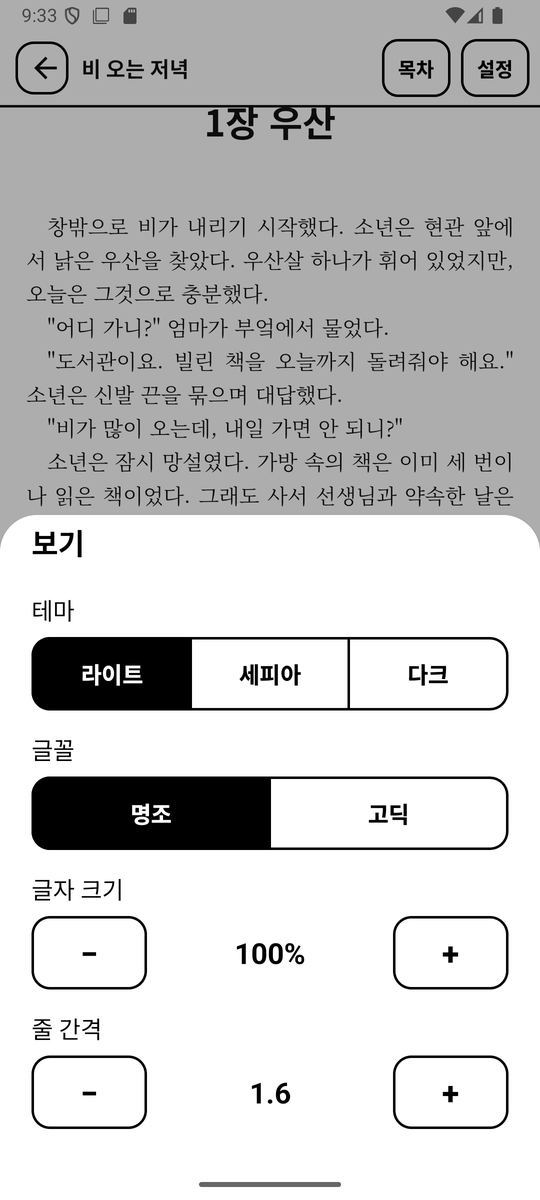
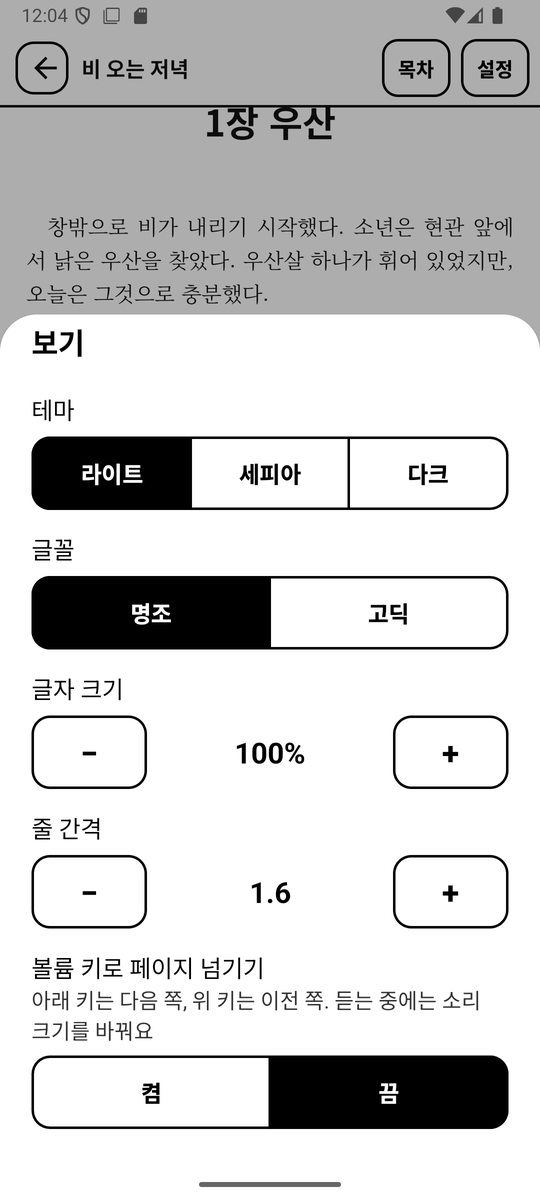
볼륨 키로 페이지 넘기기(설정 → 보기), Supertonic 3을 품질 추천으로, 0.1.5
- 보기 시트에 "볼륨 키로 페이지 넘기기 켬 | 끔"(기본 끔). 켜면 아래 키 다음 쪽, 위 키 이전 쪽. 듣는 중에는
  볼륨 키가 그대로 소리 크기를 바꾼다. PageKeyLayout(IME 이전)에서 받아 시스템 볼륨이 바뀌지 않음
- 음성 팩 받기: Supertonic 3을 먼저, "품질 추천". Supertonic 2는 "가볍고 빠름, 느린 기기용"
  (듀로보에서 3도 끊김 없이 따라 읽고 품질이 더 좋았음)
- README 설치·음성 팩 표·사용 방법·내 목소리 예시를 Supertonic 3 기준으로, 볼륨 키 안내. 스크린샷 3장 교체

Changed region(s): [[0.0, 0.2467, 1.0, 0.9558], [0.0296, 0.0, 0.2667, 0.0308], [0.1481, 0.8942, 0.1778, 0.925]]

diff --git a/app/src/main/java/app/voicereader/ReaderActivity.kt b/app/src/main/java/app/voicereader/ReaderActivity.kt
@@ -233,7 +233,7 @@ class ReaderActivity : AppCompatActivity() {
 
     /** Turns the page for a page key (on key down) and says whether it was one. */
     private fun pageKey(event: AndroidKeyEvent): Boolean {
-        val forward = PAGE_KEYS[event.keyCode] ?: return false
+        val forward = PAGE_KEYS[event.keyCode] ?: volumeKey(event.keyCode) ?: return false
         if (event.action == AndroidKeyEvent.ACTION_DOWN) turnPage(forward)
         return true
     }
@@ -246,6 +246,16 @@ class ReaderActivity : AppCompatActivity() {
         if (amount == 0f) return super.dispatchGenericMotionEvent(event)
         turnPage(amount > 0)
         return true
+    }
+
+    /** Volume down / up as next / previous page, when turned on in 보기 and nothing is being read aloud. */
+    private fun volumeKey(code: Int): Boolean? {
+        if (!app.volumeKeysTurnPages || app.tts.value?.playback?.value?.playWhenReady == true) return null
+        return when (code) {
+            AndroidKeyEvent.KEYCODE_VOLUME_DOWN -> true
+            AndroidKeyEvent.KEYCODE_VOLUME_UP -> false
+            else -> null
+        }
     }
 
     private var lastTurn = 0L
@@ -369,7 +379,8 @@ class ReaderActivity : AppCompatActivity() {
         Sheet(this, "설정").apply {
             row(
                 "보기",
-                "${if (prefs.fontFamily == FontFamily.SANS_SERIF) "고딕" else "명조"} · ${percent(prefs.fontSize ?: 1.0)} · 줄 간격 ${"%.1f".format(prefs.lineHeight ?: 1.6)}",
+                "${if (prefs.fontFamily == FontFamily.SANS_SERIF) "고딕" else "명조"} · ${percent(prefs.fontSize ?: 1.0)} · 줄 간격 ${"%.1f".format(prefs.lineHeight ?: 1.6)}" +
+                    if (app.volumeKeysTurnPages) " · 볼륨 키 넘김" else "",
                 icon = R.drawable.ic_text,
                 more = true,
             ) { showDisplay() }
@@ -415,6 +426,8 @@ class ReaderActivity : AppCompatActivity() {
                 val next = (((prefs.lineHeight ?: 1.6) * 10).roundToInt() + delta).coerceIn(10, 25) / 10.0
                 if (next == prefs.lineHeight) null else "%.1f".format(next).also { update(prefs.copy(lineHeight = next)) }
             }
+            choice("볼륨 키로 페이지 넘기기", "아래 키는 다음 쪽, 위 키는 이전 쪽. 듣는 중에는 소리 크기를 바꿔요",
+                listOf("켬", "끔"), if (app.volumeKeysTurnPages) 0 else 1) { app.volumeKeysTurnPages = it == 0 }
         }.show()
     }
 

diff --git a/app/src/main/java/app/voicereader/App.kt b/app/src/main/java/app/voicereader/App.kt
@@ -136,14 +136,15 @@ fun Context.toast(message: String) = Toast.makeText(this, message, Toast.LENGTH_
 /** A voice pack the app fetches by itself: sherpa-onnx's Supertonic files on Hugging Face, pinned to a revision. */
 class PackSource(val name: String, val repo: String, val revision: String, val bytes: Long, val note: String)
 
+// Supertonic 3 first: it reads better, and an e-ink reader (tested: 듀로보) keeps up with it. 2 is lighter.
 val DOWNLOADABLE_PACKS = listOf(
     PackSource(
-        "supertonic-2", "csukuangfj2/sherpa-onnx-supertonic-tts-int8-2026-03-06",
-        "5dec5897b86e2b293790eedb5e1f561a3295651f", 96_405_714, "서술에 추천",
+        "supertonic-3", "csukuangfj2/sherpa-onnx-supertonic-3-tts-int8-2026-05-11",
+        "cca5a0e6c96e1d2c720986bf7e75fcc81dee3ae4", 145_296_838, "품질 추천",
     ),
     PackSource(
-        "supertonic-3", "csukuangfj2/sherpa-onnx-supertonic-3-tts-int8-2026-05-11",
-        "cca5a0e6c96e1d2c720986bf7e75fcc81dee3ae4", 145_296_838, "대사·감정 표현에 추천, 더 느림",
+        "supertonic-2", "csukuangfj2/sherpa-onnx-supertonic-tts-int8-2026-03-06",
+        "5dec5897b86e2b293790eedb5e1f561a3295651f", 96_405_714, "가볍고 빠름, 느린 기기용",
     ),
 )
 
@@ -315,6 +316,11 @@ class App : Application(), TtsNavigator.Listener {
     var showShelves: Boolean
         get() = prefs.getBoolean("showShelves", true)
         set(value) = prefs.edit().putBoolean("showShelves", value).apply()
+
+    /** Volume keys turn pages while reading (while listening they still set the volume). */
+    var volumeKeysTurnPages: Boolean
+        get() = prefs.getBoolean("volumeKeysTurnPages", false)
+        set(value) = prefs.edit().putBoolean("volumeKeysTurnPages", value).apply()
 
     // --- Device scan: every EPUB on the device, read in place ---
 

diff --git a/docs/my-voice.md b/docs/my-voice.md
@@ -15,7 +15,7 @@
 - 앱의 Supertonic 모델은 그대로 두고, 녹음과 비슷하게 들리도록 목소리 특징값만 맞춥니다. 방법과 측정 결과는 [spike/voice_inversion/README.md](../spike/voice_inversion/README.md)에 있습니다.
 - 목소리 색깔(음색)은 따라오지만, 말버릇과 억양까지 따라오지는 않습니다.
 - 품질은 화자 인식 모델의 점수로만 확인했고, 사람 귀로 비교한 검증은 아직 없습니다. 만든 뒤 꼭 들어 보고 고르세요(5번).
-- **Supertonic 2용과 3용은 따로 만듭니다.** 서술에 쓰는 기본 목소리는 Supertonic 2입니다. 2용 파일을 3에 넣으면 엉뚱한 목소리가 납니다.
+- **Supertonic 2용과 3용은 따로 만듭니다.** 앱에서 쓰는 음성 팩과 같은 모델로 만드세요(품질은 Supertonic 3을 권합니다). 2용 파일을 3에 넣으면 엉뚱한 목소리가 납니다.
 
 ## 1. 동의 확인
 
@@ -117,7 +117,7 @@ afconvert -f WAVE -d LEI16 녹음1.m4a 녹음1.wav
 녹음 wav를 모두 `--ref` 뒤에 적습니다. 도구가 파일들을 하나로 이어 붙입니다. `--name`은 영문이나 숫자로 짓습니다.
 
 ```bash
-python spike/voice_inversion/voice_inversion.py fit --ref 녹음0.wav 녹음1.wav 녹음2.wav 녹음3.wav --name me --model supertonic-2 --out my-voice
+python spike/voice_inversion/voice_inversion.py fit --ref 녹음0.wav 녹음1.wav 녹음2.wav 녹음3.wav --name me --model supertonic-3 --out my-voice
 ```
 
 `my-voice` 폴더에 목소리 파일 세 개가 생깁니다.
@@ -128,18 +128,18 @@ python spike/voice_inversion/voice_inversion.py fit --ref 녹음0.wav 녹음1.wa
 | `me.blend.json` | 기본 목소리 10개를 섞어 가장 가깝게 만든 목소리 |
 | `me.nearest.json` | 기본 목소리 중 가장 비슷한 하나 |
 
-대사만 다른 목소리로 읽게 할 Supertonic 3용이 필요하면 `--model supertonic-3`으로 한 번 더 만듭니다.
+가벼운 Supertonic 2를 쓴다면 `--model supertonic-2`로 만듭니다. 두 팩 모두에서 쓰려면 각각 한 번씩 만듭니다.
 
 ## 5. 들어 보고 고르기
 
 세 파일로 확인용 음성 팩을 만들고, 앱과 같은 방식으로 한국어 문장을 합성해 녹음과 비교합니다.
 
 ```bash
-python spike/voice_inversion/voice_inversion.py pack my-voice/me.nearest.json my-voice/me.blend.json my-voice/me.invert.json --model supertonic-2 --out my-voice/me-supertonic-2.zip
+python spike/voice_inversion/voice_inversion.py pack my-voice/me.nearest.json my-voice/me.blend.json my-voice/me.invert.json --model supertonic-3 --out my-voice/me-supertonic-3.zip
 ```
 
 ```bash
-python spike/voice_inversion/voice_inversion.py eval my-voice/me-supertonic-2.zip --ref 녹음0.wav 녹음1.wav 녹음2.wav 녹음3.wav --name me --out my-voice/eval
+python spike/voice_inversion/voice_inversion.py eval my-voice/me-supertonic-3.zip --ref 녹음0.wav 녹음1.wav 녹음2.wav 녹음3.wav --name me --out my-voice/eval
 ```
 
 - **들어 보기:** `my-voice/eval` 폴더에 문장마다 소리 파일이 생깁니다.
@@ -159,7 +159,7 @@ python spike/voice_inversion/voice_inversion.py eval my-voice/me-supertonic-2.zi
 이때는 다듬기를 시작한 기본 목소리에서 **일부만 옮긴 약한 버전**을 만들어 비교하세요. 다시 학습하지 않아 몇 초면 됩니다.
 
 ```bash
-python spike/voice_inversion/voice_inversion.py mix my-voice/me.invert.json --percent 25 50 75 --model supertonic-2
+python spike/voice_inversion/voice_inversion.py mix my-voice/me.invert.json --percent 25 50 75 --model supertonic-3
 ```
 
 - `my-voice` 폴더에 `me.invert.25.json`, `me.invert.50.json`, `me.invert.75.json`이 생깁니다. 숫자가 작을수록 기본 목소리에 가까워 자연스럽고, 클수록 내 목소리에 가깝습니다.
@@ -174,7 +174,7 @@ python spike/voice_inversion/voice_inversion.py mix my-voice/me.invert.json --pe
 1. 고른 JSON 파일의 이름을 `내 목소리.json`처럼 바꿉니다. 파일 이름이 앱의 목소리 목록에 그대로 보입니다.
 2. 파일을 기기로 옮깁니다(USB, 클라우드, 메일 등).
 3. 앱 서재 위쪽의 **목소리** 버튼 → **직접 만든 목소리 넣기** → 동의 확인 → 파일을 고릅니다.
-4. "어느 음성 팩에 넣을까요?"에서 **만든 모델과 같은 팩**을 고릅니다(`--model supertonic-2`로 만들었으면 Supertonic 2).
+4. "어느 음성 팩에 넣을까요?"에서 **만든 모델과 같은 팩**을 고릅니다(`--model supertonic-3`으로 만들었으면 Supertonic 3).
 5. 목소리 목록 맨 끝에 추가됩니다. 누르면 들어 보고 그 목소리로 고릅니다.
 
 앱 쪽 화면은 [사용 방법 8번](guide.md#8-직접-만든-목소리-넣기)에 있습니다.

diff --git a/docs/guide.md b/docs/guide.md
@@ -34,8 +34,8 @@
 ## 2. 목소리 고르기
 
 1. 서재 위쪽의 **목소리 · 여성 1**처럼 지금 목소리가 적힌 버튼을 누릅니다.
-2. 음성 팩이 없으면 **Supertonic 2 받기** → **받기**(약 96MB, Wi-Fi 권장). 받는 동안 서재 위쪽에 진행률이 보이고, 다 받으면 그 목소리로 바로 읽습니다.
-   대사용으로 **Supertonic 3 받기**(약 145MB)도 있습니다. 직접 묶은 zip은 **음성 팩 파일로 설치**로 넣습니다([README](../README.md#zip으로-가져오기)).
+2. 음성 팩이 없으면 **Supertonic 3 받기** → **받기**(약 145MB, Wi-Fi 권장). 받는 동안 서재 위쪽에 진행률이 보이고, 다 받으면 그 목소리로 바로 읽습니다.
+   느린 기기라면 가벼운 **Supertonic 2 받기**(약 96MB)를 고르세요. 직접 묶은 zip은 **음성 팩 파일로 설치**로 넣습니다([README](../README.md#zip으로-가져오기)).
 3. 음성 팩 행을 누르면 목소리 10종(여성 1~5, 남성 1~5)이 나옵니다. 누르는 즉시 그 목소리로 바뀌고 한 문장을 들려 줍니다.
 
 여기서 고른 목소리는 모든 책의 서술에 씁니다. **기기 기본 음성**은 이 기기에 설치된 음성(안드로이드 TTS)으로 읽습니다.
@@ -58,6 +58,7 @@
 1. 서재의 **이어 듣기** 카드에서 ▶ 를 누르면 마지막으로 듣던 곳부터 바로 읽습니다.
    책을 열어 듣고 싶으면 표지를 누르고, 화면 가운데를 눌러 나온 아래 바의 **듣기**를 누릅니다. 듣기가 시작되면 바는 숨고 읽는 문장만 칠해집니다.
 2. 읽는 문장이 회색으로 칠해지고, 페이지는 저절로 넘어갑니다. 멈추거나 문장을 옮기려면 화면 가운데를 눌러 바를 띄웁니다(**이전 문장** · **일시정지** · **다음 문장**). 일시정지하면 하이라이트가 사라져 눈으로 읽기 편합니다.
+   볼륨 키로 쪽을 넘기려면 설정 → 보기 → **볼륨 키로 페이지 넘기기**를 켜세요. 듣는 중에는 볼륨 키가 그대로 소리 크기를 조절합니다.
 3. 화면을 끄거나 다른 앱으로 가도 계속 읽습니다. 알림과 잠금화면의 재생 버튼, 이어폰 버튼으로 일시정지·재생하고, 알림의 |◀ ▶| 로 이전·다음 장으로 갑니다.
 
 읽는 위치는 몇 초마다 저장되므로, 다음에 열면 그 자리부터 이어집니다.
@@ -80,7 +81,7 @@
 서술은 차분한 목소리로, 따옴표로 시작하는 대사만 다른 목소리로 읽게 할 수 있습니다.
 
 1. 책을 열고 화면 가운데를 눌러 **설정** → **낭독**.
-2. **대사 목소리** → 음성 팩 → 목소리를 고릅니다(예: 서술은 Supertonic 2의 여성 1, 대사는 Supertonic 3의 남성 1). 고르면 바로 들려 줍니다.
+2. **대사 목소리** → 음성 팩 → 목소리를 고릅니다(예: 서술은 여성 1, 대사는 남성 1). 고르면 바로 들려 줍니다.
 3. 이 설정은 그 책에만 적용됩니다. 다시 한 목소리로 읽으려면 **서술과 같은 목소리**를 고르세요.
 
 같은 화면에서 **속도**(−/+)와 **문장 사이 쉼**(짧게·보통·길게)도 바꿀 수 있습니다.
